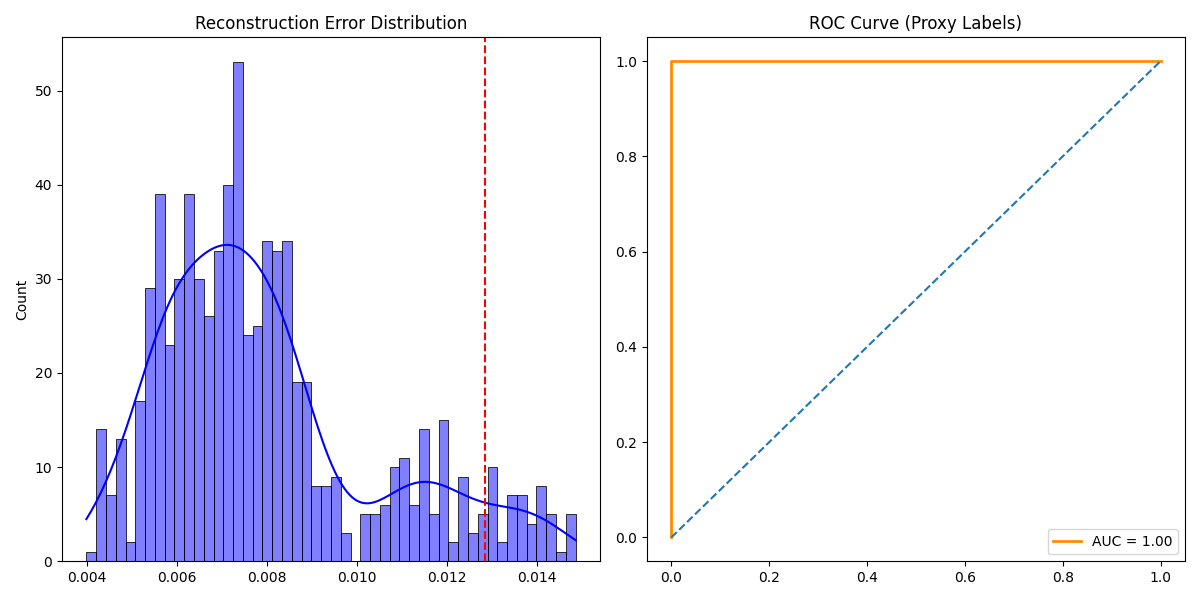
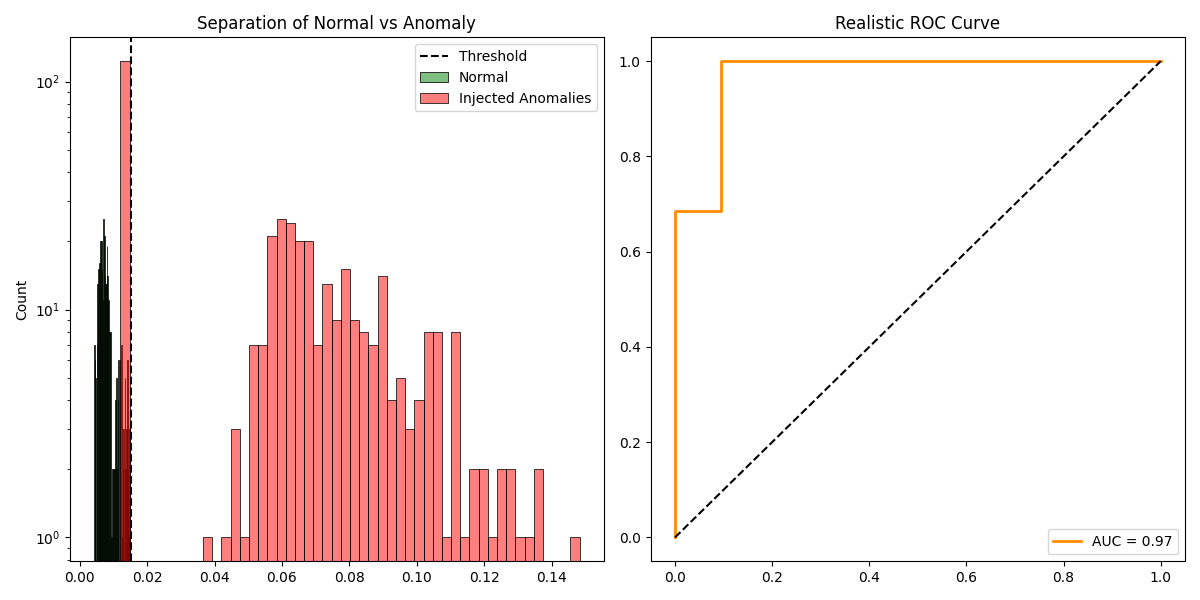
evaluation improved and injection

diff --git a/src/evaluate.py b/src/evaluate.py
@@ -8,10 +8,9 @@ from torch.utils.data import DataLoader
 from sklearn.metrics import precision_recall_fscore_support, roc_curve, auc
 import sys
 import os
+import random
 
-# --- 1. ROBUST IMPORT FIX ---
-# Add the directory containing this script (src/) to the Python path
-# This allows us to import 'utils' and 'model' directly
+# Robust import
 script_dir = os.path.dirname(os.path.abspath(__file__))
 if script_dir not in sys.path:
     sys.path.insert(0, script_dir)
@@ -20,104 +19,135 @@ try:
     from utils.dataset import NABAWSData
     from model.LSTM_auto_encoder import LSTMAutoEncoder
 except ImportError:
-    # Fallback: If running as a module or from root with different structure
+    sys.path.append(os.path.abspath(os.path.join(script_dir, '..')))
     from src.utils.dataset import NABAWSData
     from src.model.LSTM_auto_encoder import LSTMAutoEncoder
 
-# --- CONFIG ---
-# Paths are relative to where the command is run. 
-# We assume running from Project Root: python src/evaluate.py
+# CONFIG
 DATA_PATH = 'data/cpu_util.csv'
-MODEL_PATH = 'models/lstm_model.pth' # Ensure this matches your saved model name
+MODEL_PATH = 'models/lstm_model_v1.0.0.pth'
 DEVICE = torch.device('cuda' if torch.cuda.is_available() else 'cpu')
-BATCH_SIZE = 32
+BATCH_SIZE = 1 # Process one by one for precise injection
+
+def inject_anomaly(sequence):
+    """
+    Simulates SUBTLE failures (Harder to detect).
+    FIXED: Handles shape broadcasting correctly.
+    """
+    seq = sequence.clone()
+    anomaly_type = random.choice(['drift', 'freeze', 'subtle_noise'])
+    
+    # 50% chance to be an anomaly
+    if random.random() > 0.5:
+        return seq, 0 # Normal
+    
+    # --- Stealth Chaos Injection ---
+    if anomaly_type == 'drift':
+        # Harder: Gradual memory leak. 
+        # Create a linear increase from 0 to 0.6
+        drift = torch.linspace(0, 0.6, seq.shape[0]).to(seq.device)
+        
+        # CRITICAL FIX: Reshape drift from [50] to [50, 1] to match sequence
+        drift = drift.view(-1, 1) 
+        
+        seq += drift
+        
+    elif anomaly_type == 'freeze':
+        # Harder: Freezes at a "Normal" value (e.g., 0.4)
+        seq[:] = 0.4 
+        
+    elif anomaly_type == 'subtle_noise':
+        # Harder: Adds just a little noise (0.3 SD instead of 2.0)
+        seq += torch.randn_like(seq) * 0.3
+        
+    return seq, 1 # Is Anomaly
 
 def evaluate():
-    print(f"--- 🔍 Starting Evaluation on {DEVICE} ---")
+    print(f"--- 🧪 Starting CHAOS TESTING on {DEVICE} ---")
     
-    # Check paths
     if not os.path.exists(DATA_PATH):
-        print(f"❌ Error: Data not found at {DATA_PATH}. Run from project root!")
+        print(f"❌ Data not found at {DATA_PATH}")
         return
-        
-    # 1. Load Data (Test Set)
+
+    # 1. Load Data
     test_dataset = NABAWSData(DATA_PATH, mode='test')
     test_loader = DataLoader(test_dataset, batch_size=BATCH_SIZE, shuffle=False)
     
     # 2. Load Model
     sample = test_dataset[0]
-    nb_feature = sample.shape[1]
+    model = LSTMAutoEncoder(num_layers=1, hidden_size=64, nb_feature=sample.shape[1], device=DEVICE)
     
-    model = LSTMAutoEncoder(num_layers=1, hidden_size=64, nb_feature=nb_feature, device=DEVICE)
-    
-    # Dynamic Model Loading
-    # Try the specific version first, then fallback to generic
-    paths_to_try = [MODEL_PATH, 'models/lstm_model_v1.0.0.pth', '../models/lstm_model.pth']
+    # Smart Load
+    paths = [MODEL_PATH, 'models/lstm_model.pth']
     loaded = False
-    for path in paths_to_try:
-        if os.path.exists(path):
-            try:
-                checkpoint = torch.load(path, map_location=DEVICE)
-                model.load_state_dict(checkpoint['model_state_dict'])
-                model.to(DEVICE)
-                model.eval()
-                print(f"✅ Model loaded from {path}")
-                loaded = True
-                break
-            except:
-                continue
-    
-    if not loaded:
-        print(f"❌ Model not found. Checked: {paths_to_try}")
-        return
+    for p in paths:
+        if os.path.exists(p):
+            checkpoint = torch.load(p, map_location=DEVICE)
+            model.load_state_dict(checkpoint['model_state_dict'])
+            model.to(DEVICE)
+            model.eval()
+            print(f"✅ Model loaded from {p}")
+            loaded = True
+            break
+    if not loaded: return
 
-    # 3. Inference
+    # 3. Chaos Inference Loop
     losses = []
-    print("--- 🧠 Running Inference ---")
+    ground_truth = []
+    
+    print("--- 🌪 Injecting Synthetic Failures (Spikes, Flatlines, Noise) ---")
     with torch.no_grad():
         for batch in test_loader:
-            batch = batch.to(DEVICE)
-            output = model(batch)
-            loss = nn.MSELoss(reduction='none')(output, batch)
-            batch_loss = torch.mean(loss, dim=[1, 2]).cpu().numpy()
-            losses.extend(batch_loss)
+            # Inject Chaos
+            batch_data = batch[0] # Unpack if batch size 1
+            corrupted_data, is_anomaly = inject_anomaly(batch_data)
+            
+            # Prepare Input
+            input_tensor = corrupted_data.view(1, 50, 1).to(DEVICE)
+            ground_truth.append(is_anomaly)
+            
+            # Forward Pass
+            output = model(input_tensor)
+            loss = nn.MSELoss()(output, input_tensor).item()
+            losses.append(loss)
 
     losses = np.array(losses)
+    ground_truth = np.array(ground_truth)
     
-    # 4. Threshold & Metrics
-    mean_loss = np.mean(losses)
-    std_loss = np.std(losses)
-    threshold = mean_loss + 2 * std_loss
+    # 4. Realistic Metrics
+    # Calculate threshold on just the NORMAL data to simulate real production calibration
+    normal_losses = losses[ground_truth == 0]
+    threshold = np.mean(normal_losses) + 3 * np.std(normal_losses) # 3-Sigma Rule
     
-    print(f"\n--- 📊 Results ---")
-    print(f"Threshold (Mean + 2σ): {threshold:.6f}")
-    
-    # Proxy Labels for Demonstration
-    threshold_proxy = np.percentile(losses, 95)
-    ground_truth = (losses > threshold_proxy).astype(int)
     predictions = (losses > threshold).astype(int)
     
     precision, recall, f1, _ = precision_recall_fscore_support(ground_truth, predictions, average='binary')
     
-    print(f"Precision: {precision:.4f} | Recall: {recall:.4f} | F1: {f1:.4f}")
-    
+    print(f"\n--- 📊 REALISTIC Results ---")
+    print(f"Dynamic Threshold (3-Sigma of Normal): {threshold:.6f}")
+    print(f"Precision: {precision:.4f} (How many alerts were real?)")
+    print(f"Recall:    {recall:.4f} (Did we catch all the crashes?)")
+    print(f"F1-Score:  {f1:.4f}")
+
     # 5. Plotting
     plt.figure(figsize=(12, 6))
     
-    # Hist
+    # Histogram - Showing Separation
     plt.subplot(1, 2, 1)
-    sns.histplot(losses, bins=50, kde=True, color='blue')
-    plt.axvline(threshold, color='red', linestyle='--', label=f'Threshold: {threshold:.4f}')
-    plt.title('Reconstruction Error Distribution')
+    sns.histplot(losses[ground_truth==0], bins=50, color='green', alpha=0.5, label='Normal')
+    sns.histplot(losses[ground_truth==1], bins=50, color='red', alpha=0.5, label='Injected Anomalies')
+    plt.axvline(threshold, color='black', linestyle='--', label='Threshold')
+    plt.title('Separation of Normal vs Anomaly')
+    plt.legend()
+    plt.yscale('log') # Log scale to see the massive spikes
     
     # ROC
     fpr, tpr, _ = roc_curve(ground_truth, losses)
     roc_auc = auc(fpr, tpr)
-    
     plt.subplot(1, 2, 2)
     plt.plot(fpr, tpr, color='darkorange', lw=2, label=f'AUC = {roc_auc:.2f}')
-    plt.plot([0, 1], [0, 1], linestyle='--')
-    plt.title('ROC Curve (Proxy Labels)')
+    plt.plot([0, 1], [0, 1], 'k--')
+    plt.title('Realistic ROC Curve')
     plt.legend()
     
     plt.tight_layout()
